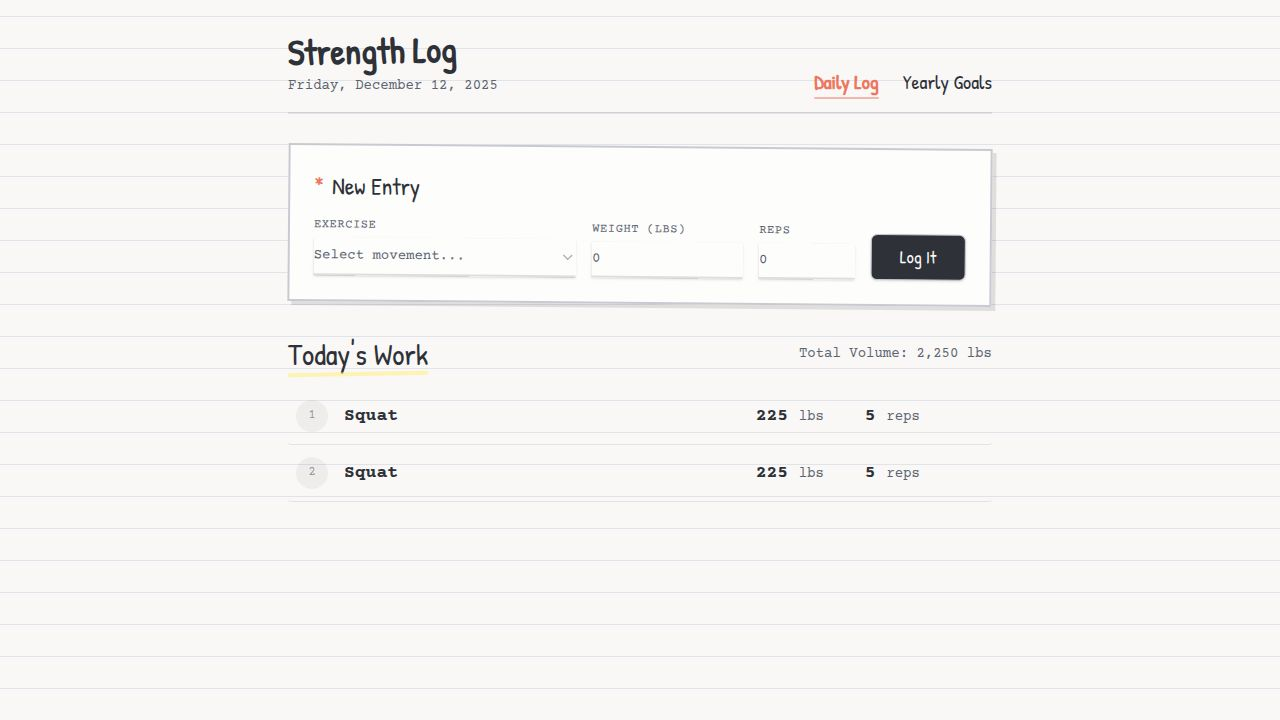
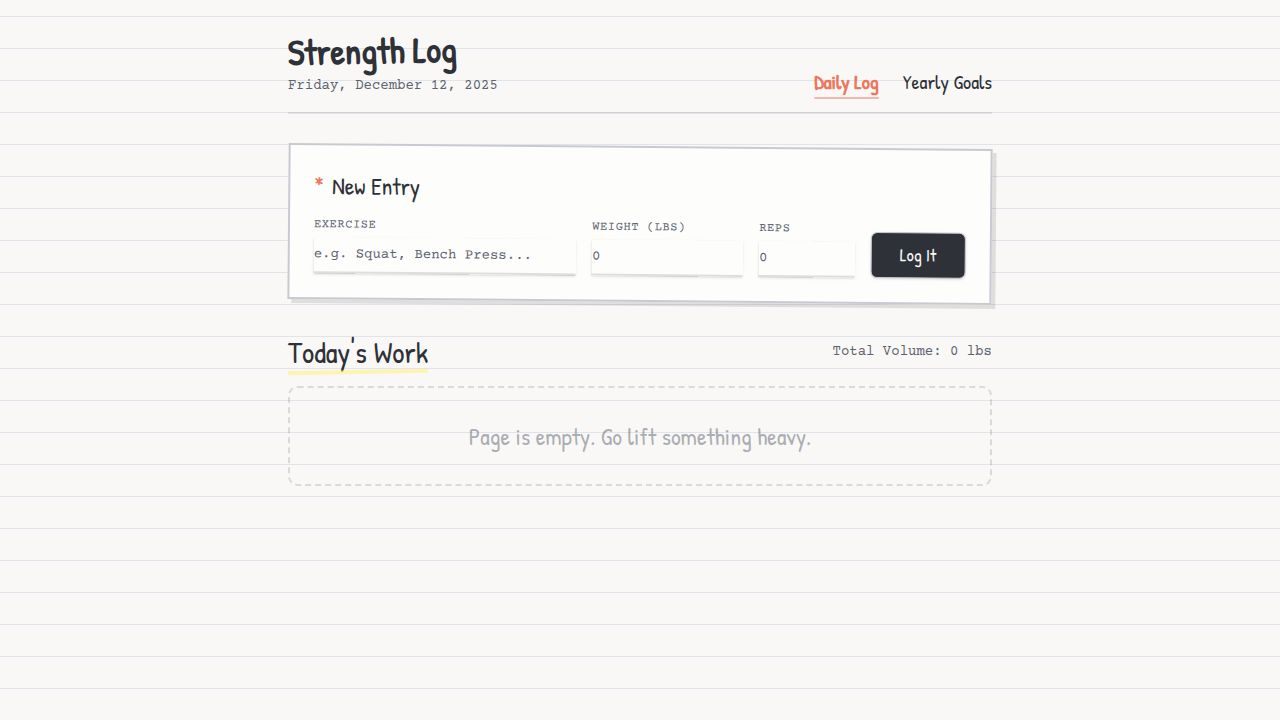
Allow users to manually enter exercise names instead of selecting from a list
Replace the exercise selection dropdown with a text input field, enabling users to manually enter exercise names.

Replit-Commit-Author: Agent
Replit-Commit-Session-Id: af4d1e6b-11de-478d-a787-bc5ff5232800
Replit-Commit-Checkpoint-Type: full_checkpoint
Replit-Commit-Event-Id: a016caf2-aba6-44a3-a57c-1de500ab544c
Replit-Commit-Screenshot-Url: https://storage.googleapis.com/screenshot-production-us-central1/39dbd400-d886-46e4-943f-97f04a0c6039/af4d1e6b-11de-478d-a787-bc5ff5232800/HxwxJTD
Replit-Helium-Checkpoint-Created: true

diff --git a/client/src/pages/home.tsx b/client/src/pages/home.tsx
@@ -1,30 +1,11 @@
 import { useForm } from "react-hook-form";
-import { Plus, Trash2, Dumbbell } from "lucide-react";
+import { Trash2 } from "lucide-react";
 import Layout from "@/components/layout";
 import { Button } from "@/components/ui/button";
 import { Input } from "@/components/ui/input";
-import {
-  Select,
-  SelectContent,
-  SelectItem,
-  SelectTrigger,
-  SelectValue,
-} from "@/components/ui/select";
-import { Card } from "@/components/ui/card";
 import { motion, AnimatePresence } from "framer-motion";
 import { useQuery, useMutation, useQueryClient } from "@tanstack/react-query";
 import type { WorkoutSet, InsertWorkoutSet } from "@shared/schema";
-
-const EXERCISES = [
-  "Squat",
-  "Bench Press",
-  "Deadlift",
-  "Overhead Press",
-  "Barbell Row",
-  "Pull Up",
-  "Dumbbell Curl",
-  "Tricep Extension",
-];
 
 export default function Home() {
   const queryClient = useQueryClient();
@@ -66,7 +47,7 @@ export default function Home() {
     },
   });
 
-  const { register, handleSubmit, reset, setValue } = useForm<InsertWorkoutSet>();
+  const { register, handleSubmit, reset } = useForm<InsertWorkoutSet>();
 
   const onSubmit = (data: InsertWorkoutSet) => {
     createMutation.mutate(data);
@@ -89,21 +70,13 @@ export default function Home() {
             <div className="grid grid-cols-1 md:grid-cols-12 gap-4 items-end">
               <div className="md:col-span-5">
                 <label className="text-xs font-mono text-muted-foreground uppercase tracking-wider block mb-1">Exercise</label>
-                <Select onValueChange={(val) => setValue("exercise", val)}>
-                  <SelectTrigger 
-                    data-testid="select-exercise"
-                    className="font-mono bg-transparent border-0 border-b-2 border-muted-foreground/20 rounded-none focus:ring-0 px-0 focus:border-primary h-auto py-2"
-                  >
-                    <SelectValue placeholder="Select movement..." />
-                  </SelectTrigger>
-                  <SelectContent className="font-mono">
-                    {EXERCISES.map((ex) => (
-                      <SelectItem key={ex} value={ex} data-testid={`option-${ex.toLowerCase().replace(/\s+/g, '-')}`}>
-                        {ex}
-                      </SelectItem>
-                    ))}
-                  </SelectContent>
-                </Select>
+                <Input 
+                  type="text" 
+                  data-testid="input-exercise"
+                  {...register("exercise", { required: true })}
+                  className="font-mono bg-transparent border-0 border-b-2 border-muted-foreground/20 rounded-none focus-visible:ring-0 px-0 focus-visible:border-primary"
+                  placeholder="e.g. Squat, Bench Press..."
+                />
               </div>
 
               <div className="md:col-span-3">
